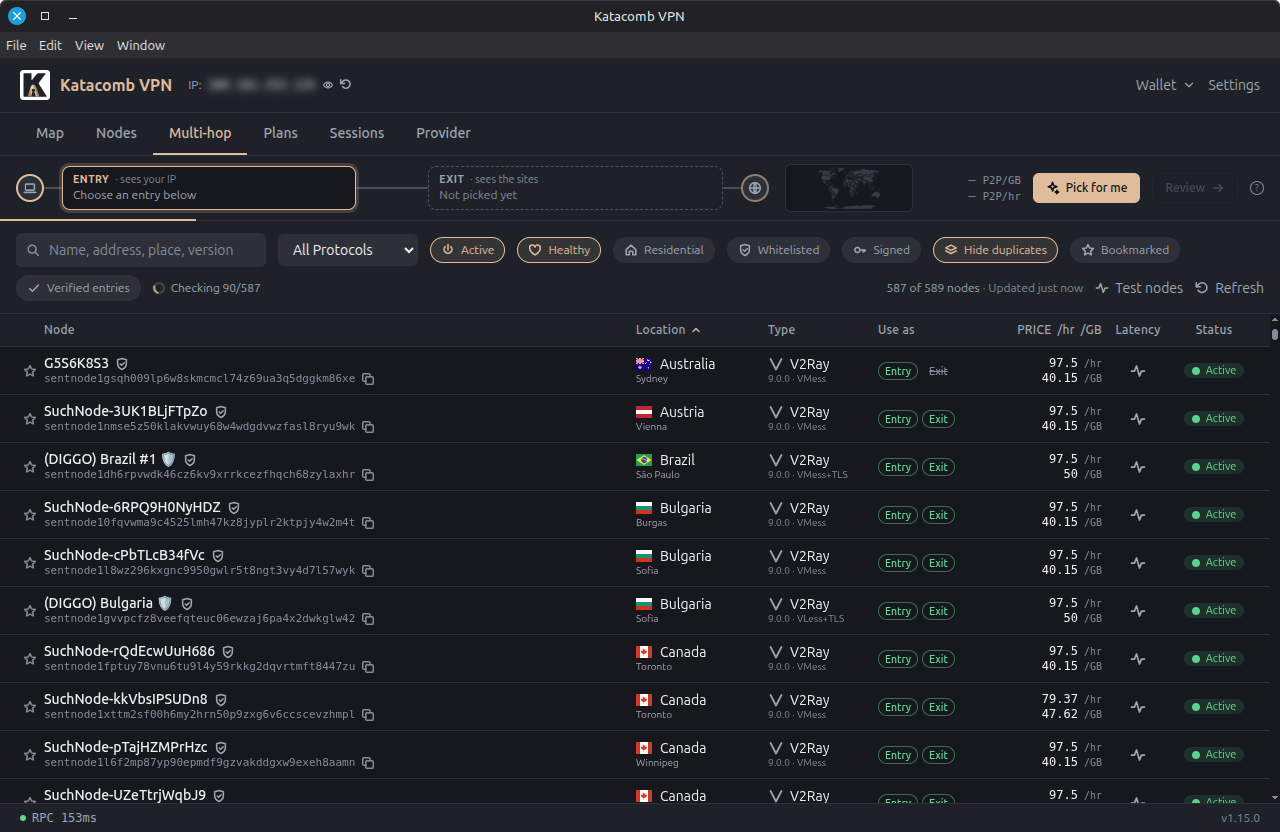
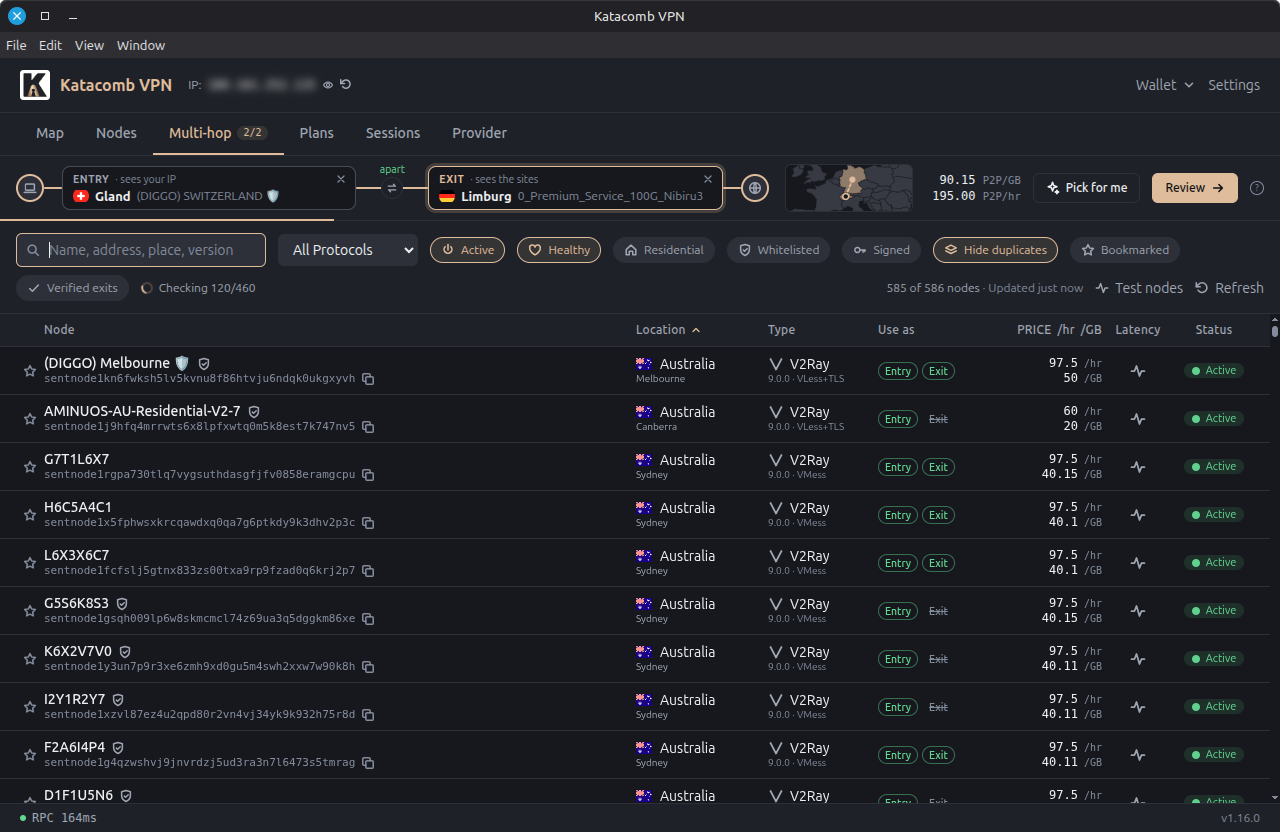
Bump Katacomb VPN fallback to v1.16.0 and update screenshots
Add the welcome screen as the first screenshot.

diff --git a/plugins/katacomb-release/index.js b/plugins/katacomb-release/index.js
@@ -4,21 +4,21 @@ const RELEASES = `https://github.com/${REPO}/releases`;
 // Used when the GitHub API can't be reached, so an offline or rate-limited
 // build still produces a working page instead of failing.
 const FALLBACK = {
-  version: '1.15.0',
+  version: '1.16.0',
   stale: true,
-  releaseUrl: `${RELEASES}/tag/v1.15.0`,
+  releaseUrl: `${RELEASES}/tag/v1.16.0`,
   deb: {
-    name: 'katacomb-vpn_1.15.0_amd64.deb',
-    url: `${RELEASES}/download/v1.15.0/katacomb-vpn_1.15.0_amd64.deb`,
+    name: 'katacomb-vpn_1.16.0_amd64.deb',
+    url: `${RELEASES}/download/v1.16.0/katacomb-vpn_1.16.0_amd64.deb`,
     size: '113 MB',
   },
   appimage: {
-    name: 'katacomb-vpn-1.15.0.AppImage',
-    url: `${RELEASES}/download/v1.15.0/katacomb-vpn-1.15.0.AppImage`,
+    name: 'katacomb-vpn-1.16.0.AppImage',
+    url: `${RELEASES}/download/v1.16.0/katacomb-vpn-1.16.0.AppImage`,
     size: '132 MB',
   },
-  checksums: `${RELEASES}/download/v1.15.0/SHA256SUMS`,
-  signature: `${RELEASES}/download/v1.15.0/SHA256SUMS.asc`,
+  checksums: `${RELEASES}/download/v1.16.0/SHA256SUMS`,
+  signature: `${RELEASES}/download/v1.16.0/SHA256SUMS.asc`,
 };
 
 const megabytes = (bytes) =>

diff --git a/src/pages/katacomb-vpn.jsx b/src/pages/katacomb-vpn.jsx
@@ -31,6 +31,13 @@ const ACCENT = '#e1bc99';
 
 const SHOTS = [
   {
+    src: 'img/katacomb/0.png',
+    alt: 'Katacomb VPN welcome screen: a dotted world map of nodes beside a three-step Get started panel',
+    caption:
+      'Welcome: create or import a wallet, add P2P, then pick a node and connect.',
+    wide: true,
+  },
+  {
     src: 'img/katacomb/1.png',
     alt: 'Katacomb VPN map view: a 3D globe beside a country list with node counts',
     caption:
